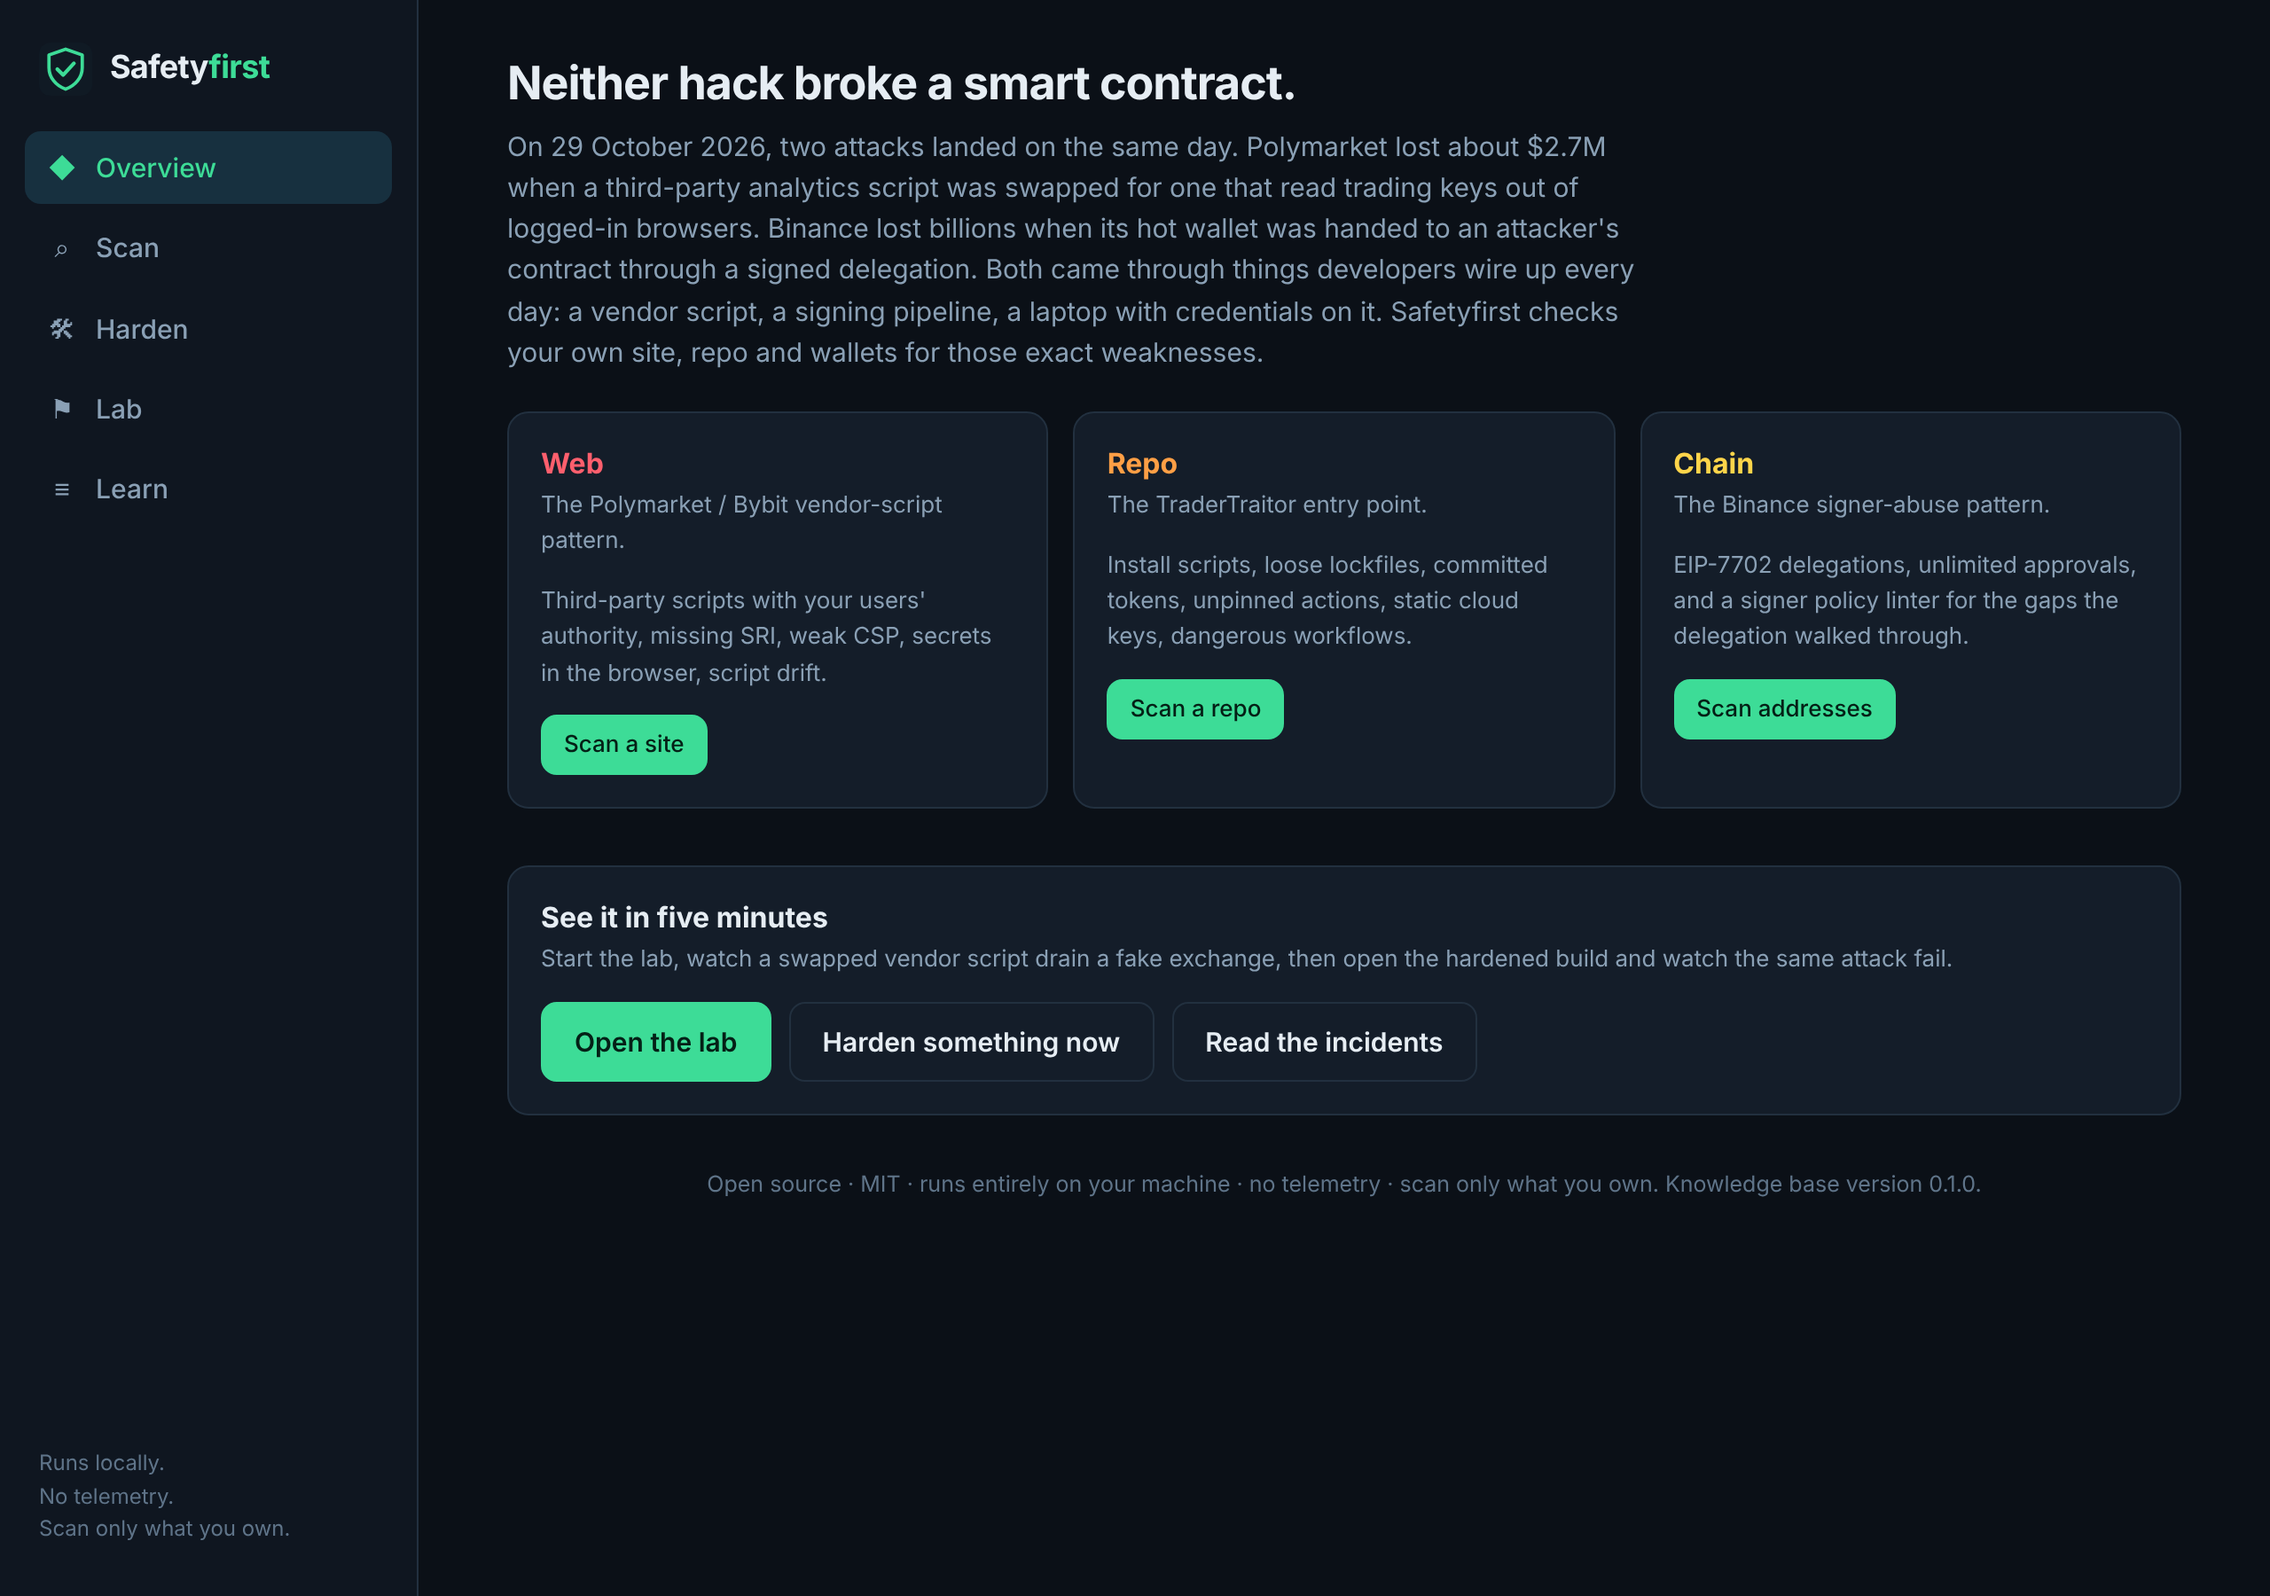
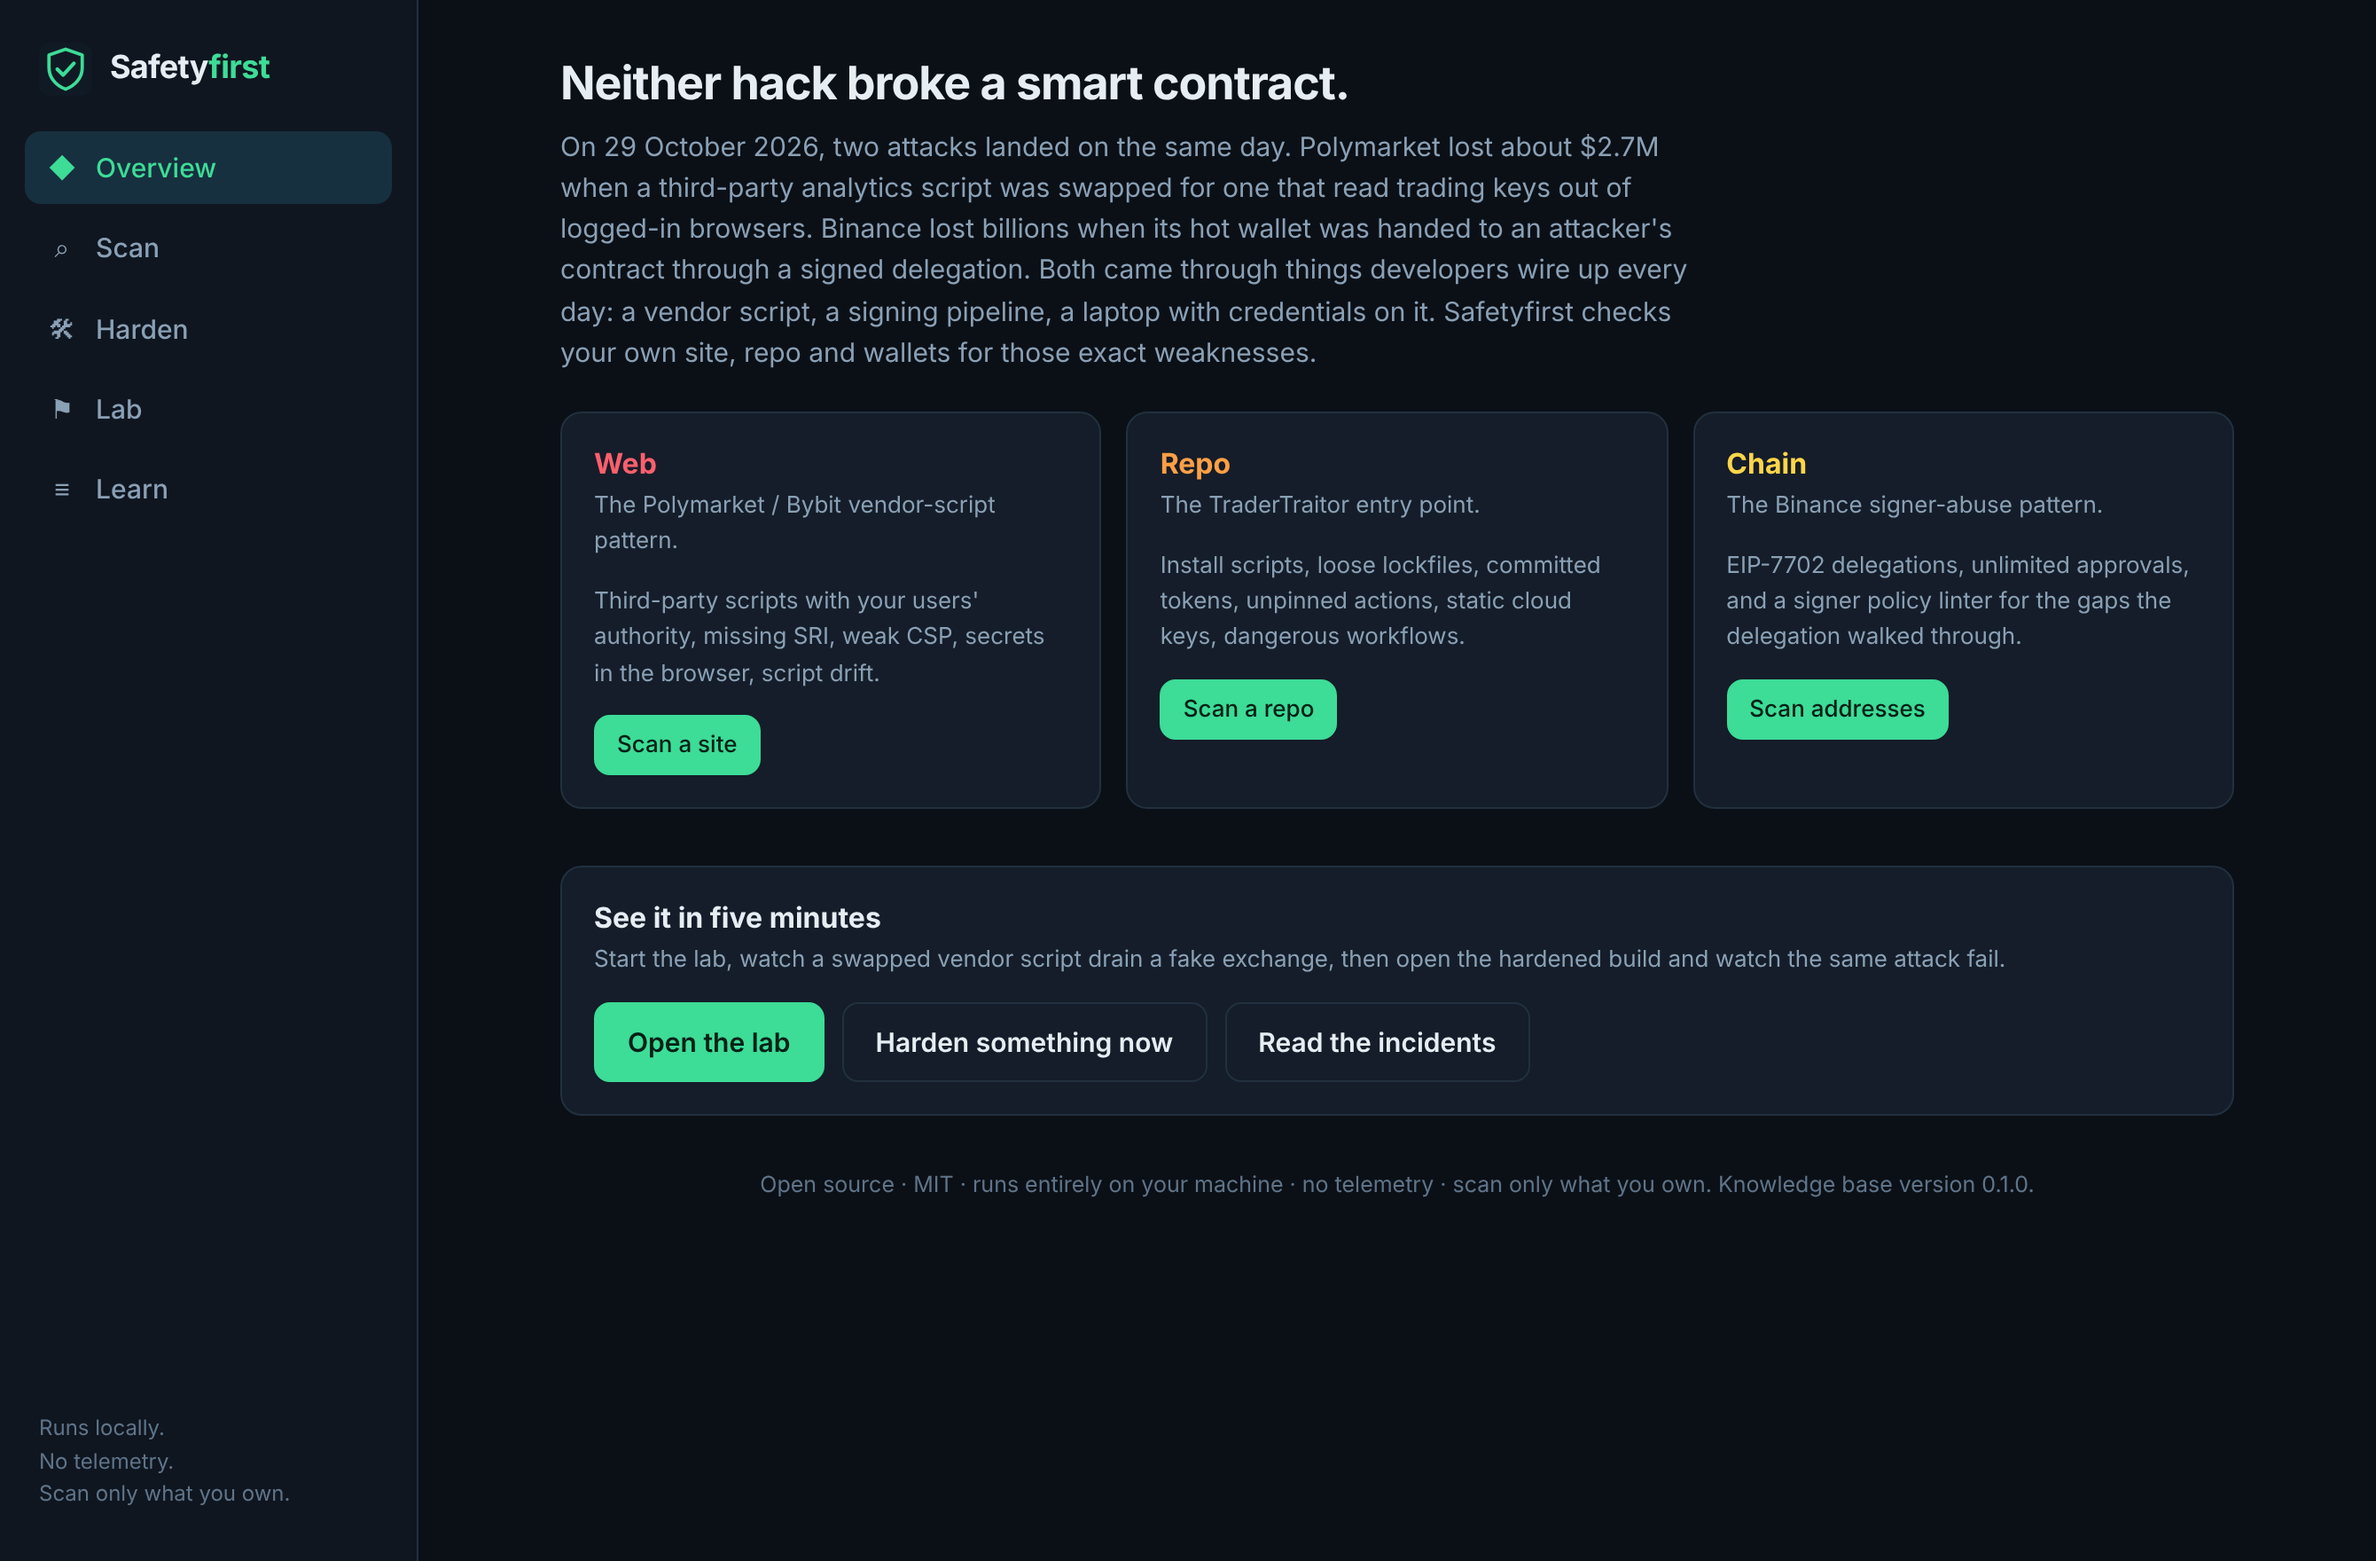
docs: add screenshots and a "How it helps" section to the README
- Embed a hero shot plus a four-step visual walkthrough (scan + kill-chain
  map, an expanded finding with its incident and fix, the Harden tab, the lab).
- Add a "How it helps" section and a "who it's for" note.
- Replace the full-page captures with a consistent viewport-framed set.
- Point the clone URL, GitHub Action reference, and in-product/report links at
  the real repository.

Claude-Session: https://claude.ai/code/session_019PXhhcPfNZqWa4QNbcBDhi

diff --git a/packages/core/src/report/sarif.ts b/packages/core/src/report/sarif.ts
@@ -11,7 +11,7 @@ export function toSarif(report: Report, repoRoot?: string): unknown {
     shortDescription: { text: r.title },
     fullDescription: { text: r.why },
     help: { text: `${r.fix.summary}\n\n${r.fix.steps.map((s, i) => `${i + 1}. ${s}`).join('\n')}`, markdown: `**${r.fix.summary}**\n\n${r.fix.steps.map((s, i) => `${i + 1}. ${s}`).join('\n')}` },
-    helpUri: r.references[0]?.url ?? 'https://github.com/safetyfirst-dev/safetyfirst',
+    helpUri: r.references[0]?.url ?? 'https://github.com/Yathish27/Lockguard',
     defaultConfiguration: { level: LEVEL[r.severity] },
     properties: { 'security-severity': SCORE[r.severity], tags: ['security', r.killChain, r.module] }
   }));
@@ -37,7 +37,7 @@ export function toSarif(report: Report, repoRoot?: string): unknown {
     version: '2.1.0',
     runs: [
       {
-        tool: { driver: { name: 'Safetyfirst', version: report.tool.version, informationUri: 'https://github.com/safetyfirst-dev/safetyfirst', rules } },
+        tool: { driver: { name: 'Safetyfirst', version: report.tool.version, informationUri: 'https://github.com/Yathish27/Lockguard', rules } },
         results,
         ...(repoRoot ? { originalUriBaseIds: { '%SRCROOT%': { uri: 'file://' + repoRoot.replace(/\\/g, '/').replace(/\/?$/, '/') } } } : {})
       }

diff --git a/packages/core/src/scanners/web.ts b/packages/core/src/scanners/web.ts
@@ -146,7 +146,7 @@ export async function scanWeb(target: WebTarget, onProgress: Progress = () => {}
     const context = await browser.newContext({
       storageState: (target.storageState as any) ?? undefined,
       ignoreHTTPSErrors: target.ignoreHTTPSErrors ?? false,
-      userAgent: 'Mozilla/5.0 (X11; Linux x86_64) AppleWebKit/537.36 (KHTML, like Gecko) Chrome/131.0 Safari/537.36 Safetyfirst/0.1 (+https://github.com/safetyfirst-dev/safetyfirst)'
+      userAgent: 'Mozilla/5.0 (X11; Linux x86_64) AppleWebKit/537.36 (KHTML, like Gecko) Chrome/131.0 Safari/537.36 Safetyfirst/0.1 (+https://github.com/Yathish27/Lockguard)'
     });
     const page = await context.newPage();
 

diff --git a/packages/core/src/knowledge/rules.ts b/packages/core/src/knowledge/rules.ts
@@ -636,7 +636,7 @@ export const RULES: Record<string, RuleDef> = {
       ],
       snippets: []
     },
-    references: [{ title: 'Safetyfirst signer policy schema and template', url: 'https://github.com/safetyfirst-dev/safetyfirst/blob/main/docs/signer-policy.md' }]
+    references: [{ title: 'Safetyfirst signer policy schema and template', url: 'https://github.com/Yathish27/Lockguard/blob/main/docs/signer-policy.md' }]
   },
   C4: {
     id: 'C4',

diff --git a/README.md b/README.md
@@ -6,6 +6,8 @@
 
 Open source · MIT · runs entirely on your machine · no telemetry
 
+<img src="docs/screenshots/01-overview.png" alt="Safetyfirst overview" width="860">
+
 </div>
 
 ---
@@ -31,10 +33,24 @@ A **local web app** (plus a CLI and a hands-on lab) with three scanners:
 
 Every finding is scored, grouped by **kill chain**, mapped to the **real incident**, and paired with a **hands-on fix** (copy-paste CSP, SRI tags, pinned workflows, revoke calldata, a signer policy).
 
+## How it helps
+
+Most security tools give you a flat list of alerts and leave you to figure out whether any of it matters. Safetyfirst is built around a different idea: **you only act on a weakness once you understand the attack it enables and can see the fix.**
+
+- **It finds the weaknesses that actually got people robbed**, not a generic checklist. Every check traces to a real 2025–2026 incident where that exact gap was the way in.
+- **It tells you why each finding matters, in plain terms**, with the real incident attached — so a developer can judge severity for their own app instead of trusting a number.
+- **It hands you the fix, ready to paste** — a strict CSP, an SRI tag, a SHA-pinned workflow, revoke calldata, a signer policy — so "you have a problem" and "here's how to close it" are the same screen.
+- **It groups findings by kill chain**, so you see *"this is the step where Polymarket happened to you,"* and which defense would have stopped it, rather than isolated line items.
+- **It lets you watch the attack happen** in a local lab, then watch the same attack fail in a hardened build — the fastest way to understand why the fix works.
+- **It runs anywhere your code and wallets are**, entirely offline, with no account and no data leaving your machine — so you can point it at production config and real addresses without hesitation.
+- **It drops into CI** with SARIF output and a `--fail-on` gate, so a regression (a new unpinned action, a committed key, a dropped CSP) breaks the build instead of shipping.
+
+**Who it's for:** developers and security teams at exchanges, wallets, dApps and any web app that moves money or holds sessions worth stealing — and anyone who wants to understand how the 2026 hacks actually worked.
+
 ## Quick start
 
 ```bash
-git clone https://github.com/safetyfirst-dev/safetyfirst
+git clone https://github.com/Yathish27/Lockguard safetyfirst
 cd safetyfirst
 npm install
 npm run build
@@ -46,6 +62,24 @@ Then:
 1. **Lab** → *Start the lab* → open the vulnerable build, log in, serve the malicious `analytics.js`, reload, and watch a third-party script drain the demo balance. Open the hardened build and watch the same attack fail.
 2. **Scan** → point the web module at the vulnerable lab build (or your own site), or the repo module at a local repository, or the chain module at your addresses.
 3. **Harden** → generate a strict CSP, hash a script for SRI, pin your GitHub Actions to commit SHAs, lint a signer policy, or build revoke calldata.
+
+## A look inside
+
+**Scan anything you own, get a score and a kill-chain map.** Pick the web, repo and/or chain module. Findings are scored A–F and exportable as Markdown, JSON or SARIF.
+
+![Scan results with score and kill-chain coverage](docs/screenshots/02-scan-killchain.png)
+
+**Every finding maps to a real incident, explains why it matters, and ships the fix.** Here a repo scan found committed secrets (R5) and ties it to the TraderTraitor developer lures and the 2025 npm worms, with masked evidence and step-by-step remediation.
+
+![An expanded finding: incident, evidence, why it matters, and the fix](docs/screenshots/03-finding.png)
+
+**Turn findings into fixes in the Harden tab** — a strict CSP builder, an SRI generator, a GitHub Actions SHA-pinner, a signer-policy linter, and approval-revoke calldata.
+
+![The Harden tab with the CSP builder](docs/screenshots/04-harden.png)
+
+**Watch the attack happen, then watch it fail.** The lab runs a vulnerable and a hardened build of a toy exchange plus a "vendor CDN" you can compromise — no real funds, keys or exploit code.
+
+![The hands-on lab](docs/screenshots/05-lab.png)
 
 ### CLI
 
@@ -60,7 +94,7 @@ npx safetyfirst scan --repo . --fail-on high --sarif out.sarif   # for CI
 ### In CI (GitHub Actions)
 
 ```yaml
-- uses: safetyfirst-dev/safetyfirst@v0
+- uses: Yathish27/Lockguard@main
   with:
     repo: .
     web: https://app.example.com/trade
